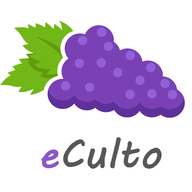
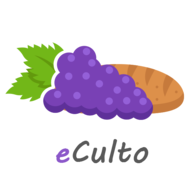
telas home e cultos

Changed region(s): [[0.0, 0.0938, 0.9688, 0.625], [0.2188, 0.7188, 0.8438, 0.9062], [0.5938, 0.4375, 0.625, 0.5]]

diff --git a/src/pages/Home/index.js b/src/pages/Home/index.js
@@ -1,106 +1,102 @@
 import React from 'react';
-import { SafeAreaView, View, Text, ScrollView } from 'react-native';
+import { SafeAreaView, View, Text, ScrollView, Image } from 'react-native';
 import { FontAwesome5 } from '@expo/vector-icons';
-import { ProgressBar, Button } from 'react-native-paper';
+import { Button } from 'react-native-paper';
+import { useNavigation, useRoute } from '@react-navigation/native';
 import styles from './styles';
 
 export default function Home() {
+    const navigation = useNavigation();
+    const route = useRoute();
+
+    function navigateToCultos(){
+        navigation.navigate('Cultos');
+    }
+
     return (
         <SafeAreaView style={styles.container}>
             <View style={styles.header}>
-                <Text style={styles.headerBrand}>Igreja Batista Betel</Text>
+                <Image source={require('../../assets/logo.png')}/>
                 <Text style={styles.headerText}></Text>
-                <FontAwesome5 name="church" size={30} color="#8b57c9" />
+                <Text style={styles.headerText}><Text style={{color:'#8b57c9'}}>e</Text>Culto</Text>
             </View>
             <View style={styles.header}>
-                <Text style={styles.about}>Escolha um horário de culto disponível abaixo e confirme sua presença</Text>
+                <Text style={styles.about}>Confirme sua presença em eventos religiosos.</Text>
+            </View>
+            <View style={styles.header}>
+                <Text style={styles.about2}>Ajude igrejas a atenderem as exigências sanitárias confirmando sua presença no culto.</Text>
+            </View>
+            <View>
+                <Text style={styles.titleChurch}>Igrejas Credenciadas</Text>
             </View>
             <ScrollView showsVerticalScrollIndicator={false}>
                 <View style={styles.dashBoard}>
                     <View style={styles.dashBoardHeader}>
-                        <Text style={styles.titleDash}>Culto de Celebração</Text>
+                        <Text style={styles.titleDash}>Igreja Batista Betel</Text>
                         <Text style={styles.titleDash}></Text>
-                        <FontAwesome5 name="clock" size={20} color="#7f7f7f" />
+                        <FontAwesome5 name="church" size={20} color="#7f7f7f" />
+                    </View>
+                    <View style={styles.currency}>
+                        <Text style={styles.fontCurrency}>Rua Olavo Bilac, 000 - São Benedito</Text>
                     </View>
                     <View style={styles.currency}>
                         <Text style={styles.fontCurrency}>Pr. Valmir Andrade</Text>
                     </View>
                     <View style={styles.currency}>
-                        <Text style={styles.fontCurrency}>09/08/2020 20:00</Text>
+                        <Text style={styles.fontCurrency}>Cristã - Evangélica</Text>
                     </View>
                     <View style={styles.progressBar}>
-                        <ProgressBar progress={0.5} color='#8b57c9' />
-                    </View>
-                    <View style={styles.progressBar}>
-                        <Button icon="check" labelStyle={{ color: '#fff' }} mode="contained" color='#95c957' onPress={() => { }}>
-                            Quero Participar
-                    </Button>
+                        <Button icon="clock" labelStyle={{ color: '#fff' }} mode="contained" color='#95c957' onPress={navigateToCultos}>
+                            Ver Horários
+                        </Button>
                     </View>
                 </View>
                 <View style={styles.dashBoard2}>
                     <View style={styles.dashBoardHeader}>
-                        <Text style={styles.titleDash}>TADEL</Text>
+                        <Text style={styles.titleDash}>Igreja Batista Memorial</Text>
                         <Text style={styles.titleDash}></Text>
-                        <FontAwesome5 name="clock" size={20} color="#7f7f7f" />
+                        <FontAwesome5 name="church" size={20} color="#7f7f7f" />
                     </View>
                     <View style={styles.currency}>
-                        <Text style={styles.fontCurrency}>Pr. Valmir Andrade</Text>
+                        <Text style={styles.fontCurrency}>Rua Teste, 000 - Centro</Text>
                     </View>
                     <View style={styles.currency}>
-                        <Text style={styles.fontCurrency}>12/08/2020 20:00</Text>
+                        <Text style={styles.fontCurrency}>Pr. Valcir Alves</Text>
+                    </View>
+                    <View style={styles.currency}>
+                        <Text style={styles.fontCurrency}>Cristã - Evangélica</Text>
                     </View>
                     <View style={styles.progressBar}>
-                        <ProgressBar progress={0.8} color='#8b57c9' />
-                    </View>
-                    <View style={styles.progressBar}>
-                        <Button icon="check" labelStyle={{ color: '#fff' }} mode="contained" color='#95c957' onPress={() => { }}>
-                            Quero Participar
-                    </Button>
+                        <Button icon="clock" labelStyle={{ color: '#fff' }} mode="contained" color='#95c957' onPress={navigateToCultos}>
+                            Ver Horários
+                        </Button>
                     </View>
                 </View>
                 <View style={styles.dashBoard2}>
                     <View style={styles.dashBoardHeader}>
-                        <Text style={styles.titleDash}>Culto de Adoração</Text>
+                        <Text style={styles.titleDash}>Comunidade Monte Santo</Text>
                         <Text style={styles.titleDash}></Text>
-                        <FontAwesome5 name="clock" size={20} color="#7f7f7f" />
+                        <FontAwesome5 name="church" size={20} color="#7f7f7f" />
                     </View>
                     <View style={styles.currency}>
-                        <Text style={styles.fontCurrency}>Pr. Paulo Arantes</Text>
+                        <Text style={styles.fontCurrency}>Rua Teste, 000 - Centro</Text>
                     </View>
                     <View style={styles.currency}>
-                        <Text style={styles.fontCurrency}>14/08/2020 19:00</Text>
-                    </View>
-                    <View style={styles.progressBar}>
-                        <ProgressBar progress={1} color='#8b57c9' />
-                    </View>
-                    <View style={styles.progressBar}>
-                        <Button icon="close" disabled={true} labelStyle={{ color: '#fff' }} mode="contained" color='#8b57c9' onPress={() => { }}>
-                            Esgotado
-                    </Button>
-                    </View>
-                </View>
-                <View style={styles.dashBoard2}>
-                    <View style={styles.dashBoardHeader}>
-                        <Text style={styles.titleDash}>Culto de Adoração</Text>
-                        <Text style={styles.titleDash}></Text>
-                        <FontAwesome5 name="clock" size={20} color="#7f7f7f" />
+                        <Text style={styles.fontCurrency}>Pr. Guto Ferraz</Text>
                     </View>
                     <View style={styles.currency}>
-                        <Text style={styles.fontCurrency}>Pr. Paulo Arantes</Text>
-                    </View>
-                    <View style={styles.currency}>
-                        <Text style={styles.fontCurrency}>14/08/2020 19:00</Text>
+                        <Text style={styles.fontCurrency}>Cristã - Evangélica</Text>
                     </View>
                     <View style={styles.progressBar}>
-                        <ProgressBar progress={0.2} color='#8b57c9' />
-                    </View>
-                    <View style={styles.progressBar}>
-                        <Button icon="check" labelStyle={{ color: '#fff' }} mode="contained" color='#95c957' onPress={() => { }}>
-                            Quero Participar
-                    </Button>
+                        <Button icon="clock" labelStyle={{ color: '#fff' }} mode="contained" color='#95c957' onPress={navigateToCultos}>
+                            Ver Horários
+                        </Button>
                     </View>
                 </View>
             </ScrollView>
+            <View>
+                <Text style={styles.wb}><FontAwesome5 name="copyright" size={11} color="8b57c9"/> WB Systems - Soluções em Informática</Text>
+            </View>
         </SafeAreaView>
     );
 }

diff --git a/src/pages/Cultos/index.js b/src/pages/Cultos/index.js
@@ -2,9 +2,17 @@ import React from 'react';
 import { SafeAreaView, View, Text, ScrollView } from 'react-native';
 import { FontAwesome5 } from '@expo/vector-icons';
 import { ProgressBar, Button } from 'react-native-paper';
+import { useNavigation, useRoute } from '@react-navigation/native';
 import styles from './styles';
 
 export default function Cultos(){
+    const navigation = useNavigation();
+    const route = useRoute();
+
+    function navigateToParticipacao(){
+        navigation.navigate('Participacao');
+    }
+    
     return(
         <SafeAreaView style={styles.container}>
         <View style={styles.header}>
@@ -32,7 +40,7 @@ export default function Cultos(){
                     <ProgressBar progress={0.5} color='#8b57c9' />
                 </View>
                 <View style={styles.progressBar}>
-                    <Button icon="check" labelStyle={{ color: '#fff' }} mode="contained" color='#95c957' onPress={() => { }}>
+                    <Button icon="check" labelStyle={{ color: '#fff' }} mode="contained" color='#95c957' onPress={navigateToParticipacao}>
                         Quero Participar
                 </Button>
                 </View>
@@ -53,7 +61,7 @@ export default function Cultos(){
                     <ProgressBar progress={0.8} color='#8b57c9' />
                 </View>
                 <View style={styles.progressBar}>
-                    <Button icon="check" labelStyle={{ color: '#fff' }} mode="contained" color='#95c957' onPress={() => { }}>
+                    <Button icon="check" labelStyle={{ color: '#fff' }} mode="contained" color='#95c957' onPress={navigateToParticipacao}>
                         Quero Participar
                 </Button>
                 </View>
@@ -74,7 +82,7 @@ export default function Cultos(){
                     <ProgressBar progress={1} color='#8b57c9' />
                 </View>
                 <View style={styles.progressBar}>
-                    <Button icon="close" disabled={true} labelStyle={{ color: '#fff' }} mode="contained" color='#8b57c9' onPress={() => { }}>
+                    <Button icon="close" disabled={true} labelStyle={{ color: '#fff' }} mode="contained" color='#8b57c9' onPress={navigateToParticipacao}>
                         Esgotado
                 </Button>
                 </View>
@@ -95,12 +103,15 @@ export default function Cultos(){
                     <ProgressBar progress={0.2} color='#8b57c9' />
                 </View>
                 <View style={styles.progressBar}>
-                    <Button icon="check" labelStyle={{ color: '#fff' }} mode="contained" color='#95c957' onPress={() => { }}>
+                    <Button icon="check" labelStyle={{ color: '#fff' }} mode="contained" color='#95c957' onPress={navigateToParticipacao}>
                         Quero Participar
                 </Button>
                 </View>
             </View>
         </ScrollView>
+        <View>
+            <Text style={styles.wb}><FontAwesome5 name="copyright" size={11} color="8b57c9"/> WB Systems - Soluções em Informática</Text>
+        </View>
     </SafeAreaView>
     );
 }

diff --git a/src/pages/Home/styles.js b/src/pages/Home/styles.js
@@ -9,14 +9,36 @@ export default StyleSheet.create({
         backgroundColor: '#faf9f4'
     },
     header:{
+        paddingTop:15,
         flexDirection: 'row',
         justifyContent: 'space-between',
         alignItems: 'center',
     },
     about:{
         paddingTop:10,
-        fontSize:16,
-        color: '#13131a'
+        fontSize:30,
+        textAlign: 'justify',
+        color: '#585858'
+    },
+    about2:{
+        paddingTop:5,
+        fontSize:18,
+        textAlign: 'justify',
+        color: '#585858'
+    },
+    wb:{
+        paddingBottom:5,
+        fontSize:12,
+        color:'#8b57c9',
+        textAlign: 'center',
+    },
+    titleChurch:{
+        marginTop:10,
+        marginBottom:5,
+        fontSize:24,
+        color:'#8b57c9',
+        textAlign: 'center',
+        fontWeight: 'bold',
     },
     headerBrand:{
         fontSize:24,
@@ -132,8 +154,7 @@ export default StyleSheet.create({
         textAlign: 'center',
     },
     headerText:{
-        fontSize:15,
-        paddingTop:10,
+        fontSize:20,
         color:'#737380',
         fontWeight: 'bold',
     },

diff --git a/src/pages/Cultos/styles.js b/src/pages/Cultos/styles.js
@@ -13,6 +13,12 @@ export default StyleSheet.create({
         justifyContent: 'space-between',
         alignItems: 'center',
     },
+    wb:{
+        paddingBottom:5,
+        fontSize:12,
+        color:'#8b57c9',
+        textAlign: 'center',
+    },
     about:{
         paddingTop:10,
         fontSize:16,
